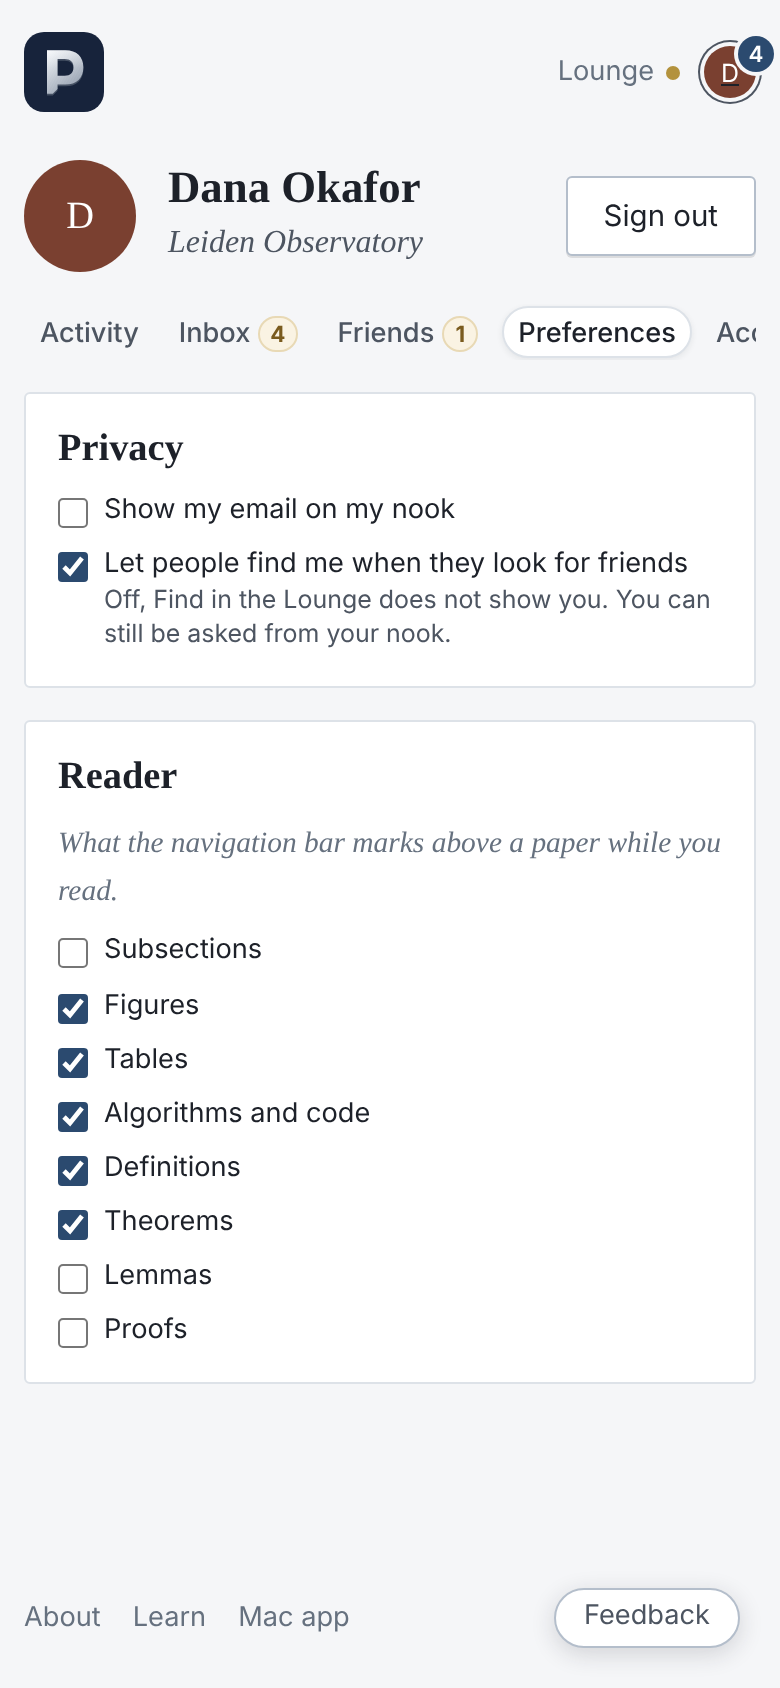
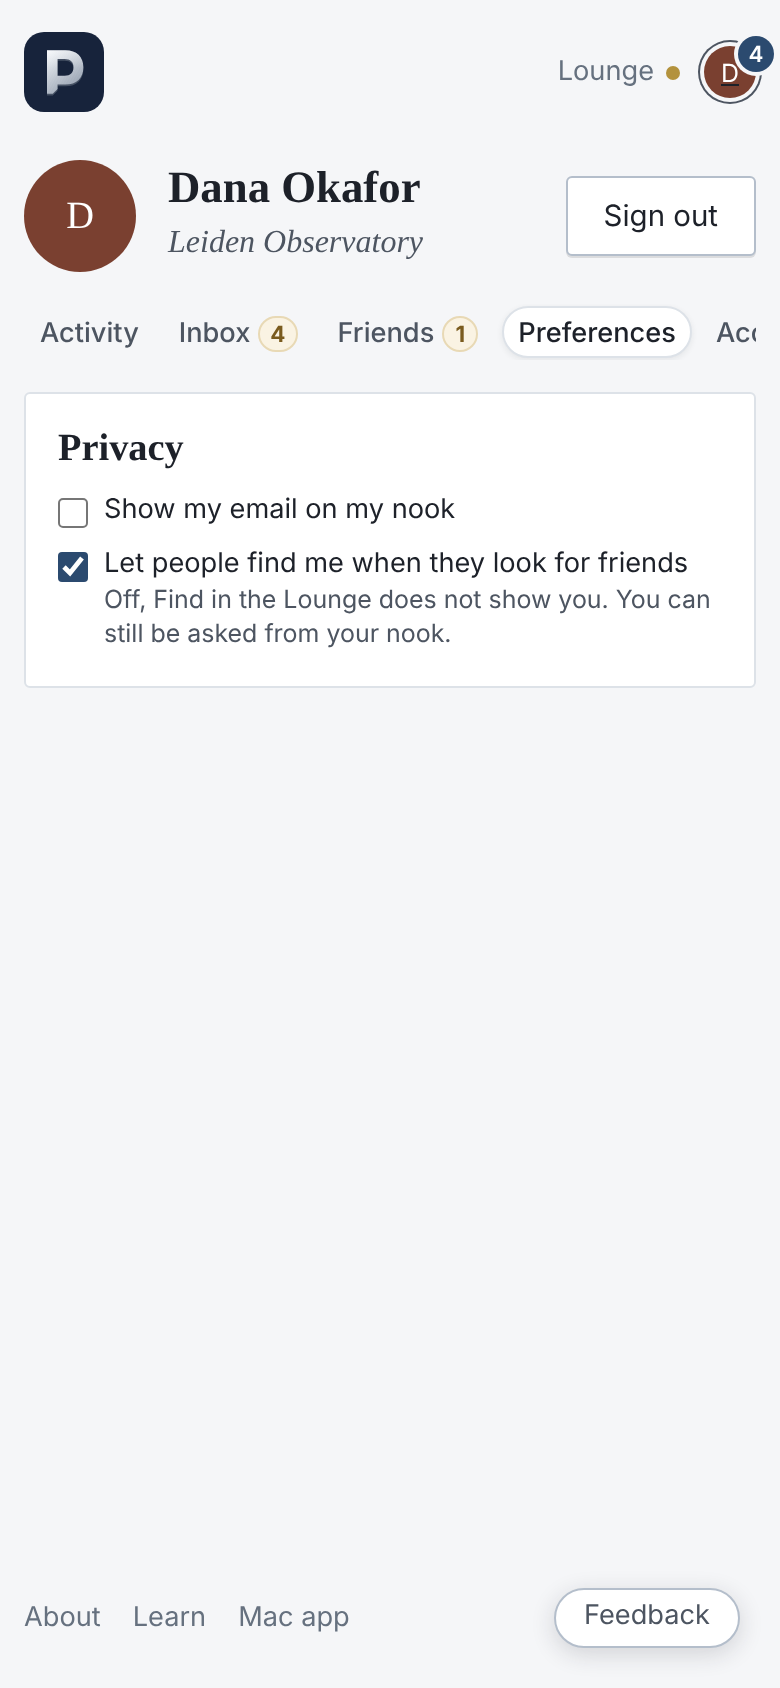
Preferences: the reader's marks stay in the reader
The Preferences tab keeps Privacy only. What the navigation bar marks
is set from the reader's own gear, as before.

Claude-Session: https://claude.ai/code/session_01PQZzMU9GKrAFQp5Cu1jE2g

diff --git a/frontend/src/components/PreferencesPanel.jsx b/frontend/src/components/PreferencesPanel.jsx
@@ -1,14 +1,12 @@
 import React, { useState } from 'react';
-import navMarks from '../../../config/nav_marks.json' with { type: 'json' };
 import { updateProfile } from '../../../shared/api/account.js';
 
 // Every choice a member makes about how Papol behaves for them, in one
-// place: who sees and finds them, and what the reader marks. Each is
+// place: who sees and finds them. Each is
 // kept the moment it is changed; there is nothing to save.
 export default function PreferencesPanel({ user, onUserUpdated }) {
   const [busy, setBusy] = useState(false);
   const [error, setError] = useState(null);
-  const marks = Array.isArray(user.nav_marks) ? user.nav_marks : navMarks.shown;
 
   const keep = async (change) => {
     if (busy) return;
@@ -31,18 +29,6 @@ export default function PreferencesPanel({ user, onUserUpdated }) {
         {tick('Show my email on my nook', Boolean(user.email_public), (on) => ({ email_public: on }))}
         {tick('Let people find me when they look for friends', user.findable ?? true, (on) => ({ findable: on }),
           'Off, Find in the Lounge does not show you. You can still be asked from your nook.')}
-      </section>
-      <section className="panel preferences-block" aria-labelledby="preferences-reader">
-        <h2 className="panel-title" id="preferences-reader">Reader</h2>
-        <p className="panel-note">What the navigation bar marks above a paper while you read.</p>
-        <div className="preferences-marks">
-          {navMarks.kinds.map((kind) => (
-            <React.Fragment key={kind}>
-              {tick(navMarks.names[kind], marks.includes(kind),
-                (on) => ({ nav_marks: navMarks.kinds.filter((k) => (k === kind ? on : marks.includes(k))) }))}
-            </React.Fragment>
-          ))}
-        </div>
       </section>
     </div>
   );

diff --git a/viewer/src/navMarks.js b/viewer/src/navMarks.js
@@ -10,7 +10,16 @@ import { positionOf } from './sectionStops.js';
 export const NAV_KINDS = navMarks.kinds;
 export const NAV_SHOWN = navMarks.shown;
 
-export const NAV_NAMES = navMarks.names;
+export const NAV_NAMES = {
+  subsection: 'Subsections',
+  figure: 'Figures',
+  table: 'Tables',
+  algorithm: 'Algorithms and code',
+  definition: 'Definitions',
+  theorem: 'Theorems',
+  lemma: 'Lemmas',
+  proof: 'Proofs',
+};
 
 // The analysis's kinds, by the kind the bar marks them as. A box (Nature's
 // "Box 1") is set like a figure and read like one; a listing is code, as an

diff --git a/shared/applicationStyles.js b/shared/applicationStyles.js
@@ -5749,7 +5749,6 @@ ${talkStyles}
 .preferences-block .panel-title, .preferences-block .panel-note { margin: 0; }
 .preferences-block .checkbox-row { color: var(--ink); font: 400 var(--fs-sm)/1.4 var(--font-ui); }
 .preferences-note { display: block; color: var(--ink-soft); font: 400 var(--fs-xs)/1.4 var(--font-ui); }
-.preferences-marks { display: grid; grid-template-columns: repeat(auto-fill, minmax(12rem, 1fr)); gap: var(--space-2) var(--space-4); }
 
 /* ---------- The Lounge ---------- */
 /* What my friends are reading and what they make of it: a paper to a row,

diff --git a/USER_STORIES.md b/USER_STORIES.md
@@ -196,7 +196,7 @@ A friend is someone I chose, who chose me back. Friendship is the third audience
 
 **Becoming friends**
 
-- **US-9.1** As a user, I can ask another user to be friends from their nook. One small button, a glyph of a person with a plus, whose tooltip reads **Ask to be friends**; once pressed it shows a person with dots (**Requested**), and pressing it again takes the request back. A glyph where words would be loud: only Accept and Not now, an answer still owed, are written out. **Find** in the Lounge looks people up by name or address; a tick box on my **Preferences** tab, *Let people find me when they look for friends*, on to begin with, takes me out of what Find shows. Preferences is one tab of my own page that holds every choice I make about how Papol behaves for me: whether my email shows on my nook, whether I can be found, and what the reader's navigation bar marks. Each is kept as it is ticked. Off, I can still be asked from my nook.
+- **US-9.1** As a user, I can ask another user to be friends from their nook. One small button, a glyph of a person with a plus, whose tooltip reads **Ask to be friends**; once pressed it shows a person with dots (**Requested**), and pressing it again takes the request back. A glyph where words would be loud: only Accept and Not now, an answer still owed, are written out. **Find** in the Lounge looks people up by name or address; a tick box on my **Preferences** tab, *Let people find me when they look for friends*, on to begin with, takes me out of what Find shows. Preferences is one tab of my own page that holds every choice I make about how Papol behaves for me: whether my email shows on my nook and whether I can be found. What belongs to the reader, such as what its navigation bar marks, is set in the reader. Each is kept as it is ticked. Off, I can still be asked from my nook.
 - **US-9.2** A request reaches them in their Inbox, with my face, name and affiliation and the papers we both keep on public shelves, so they can tell who is asking. They answer **Accept** or **Not now**. It also waits on the Friends tab of their own page until answered.
 - **US-9.3** **Not now is quiet.** I am never told I was declined; my button goes on reading Requested, and I cannot ask the same person a second time. They can change their mind later from my nook.
 - **US-9.4** If we have each asked the other, we are friends; nobody is made to accept a request they also sent.
